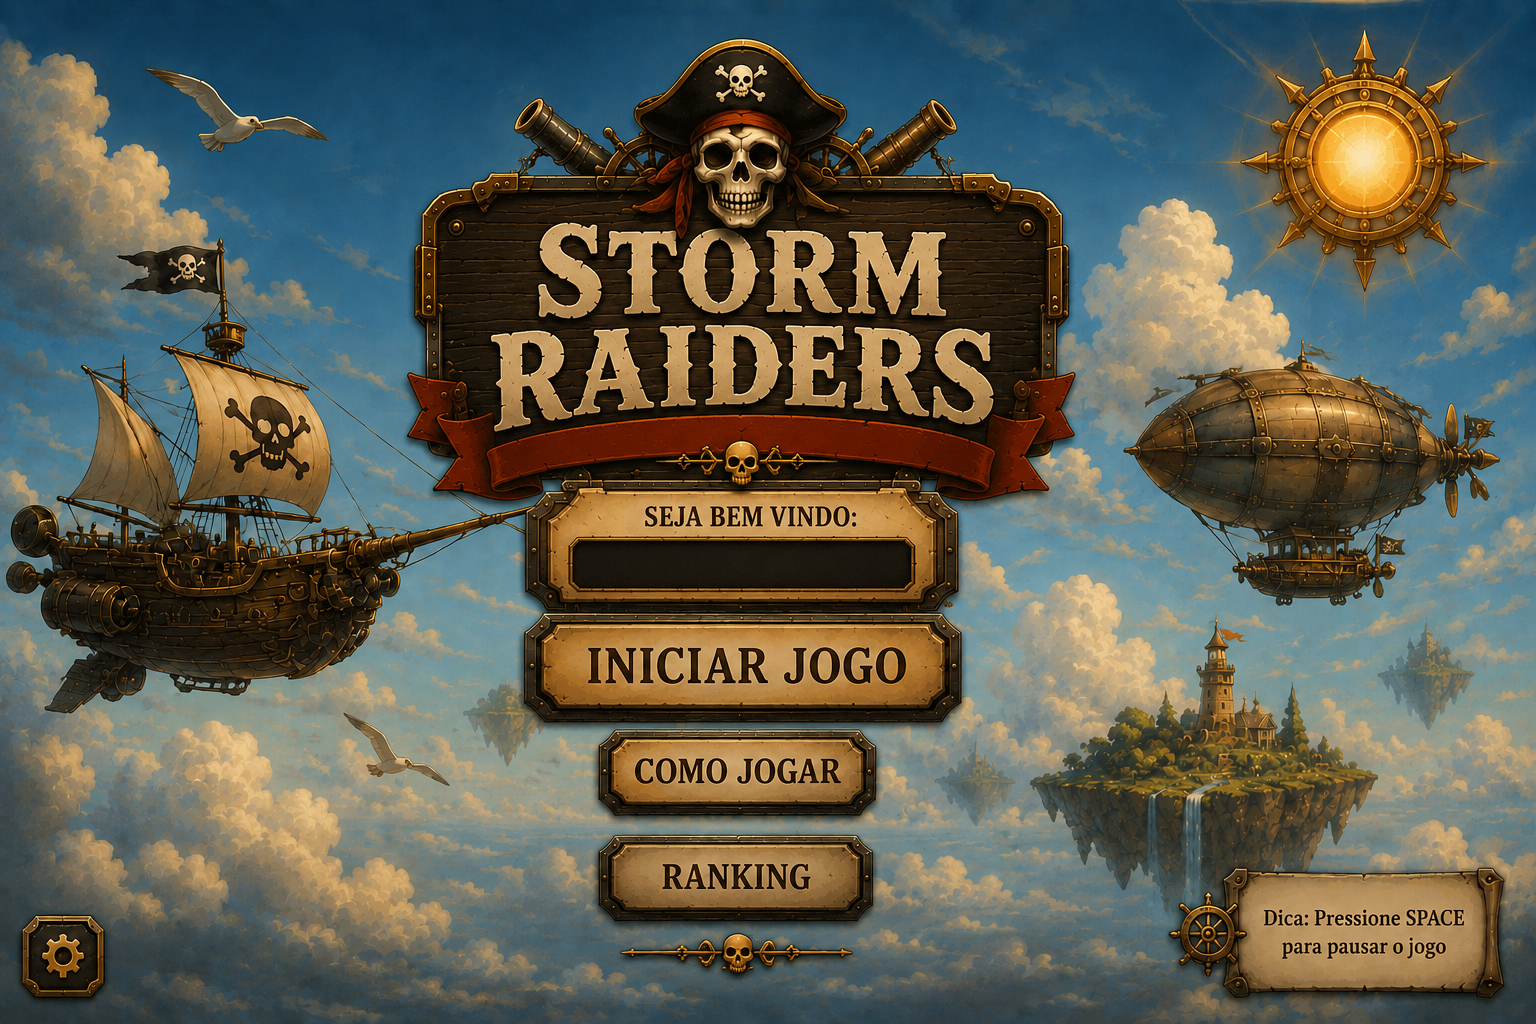
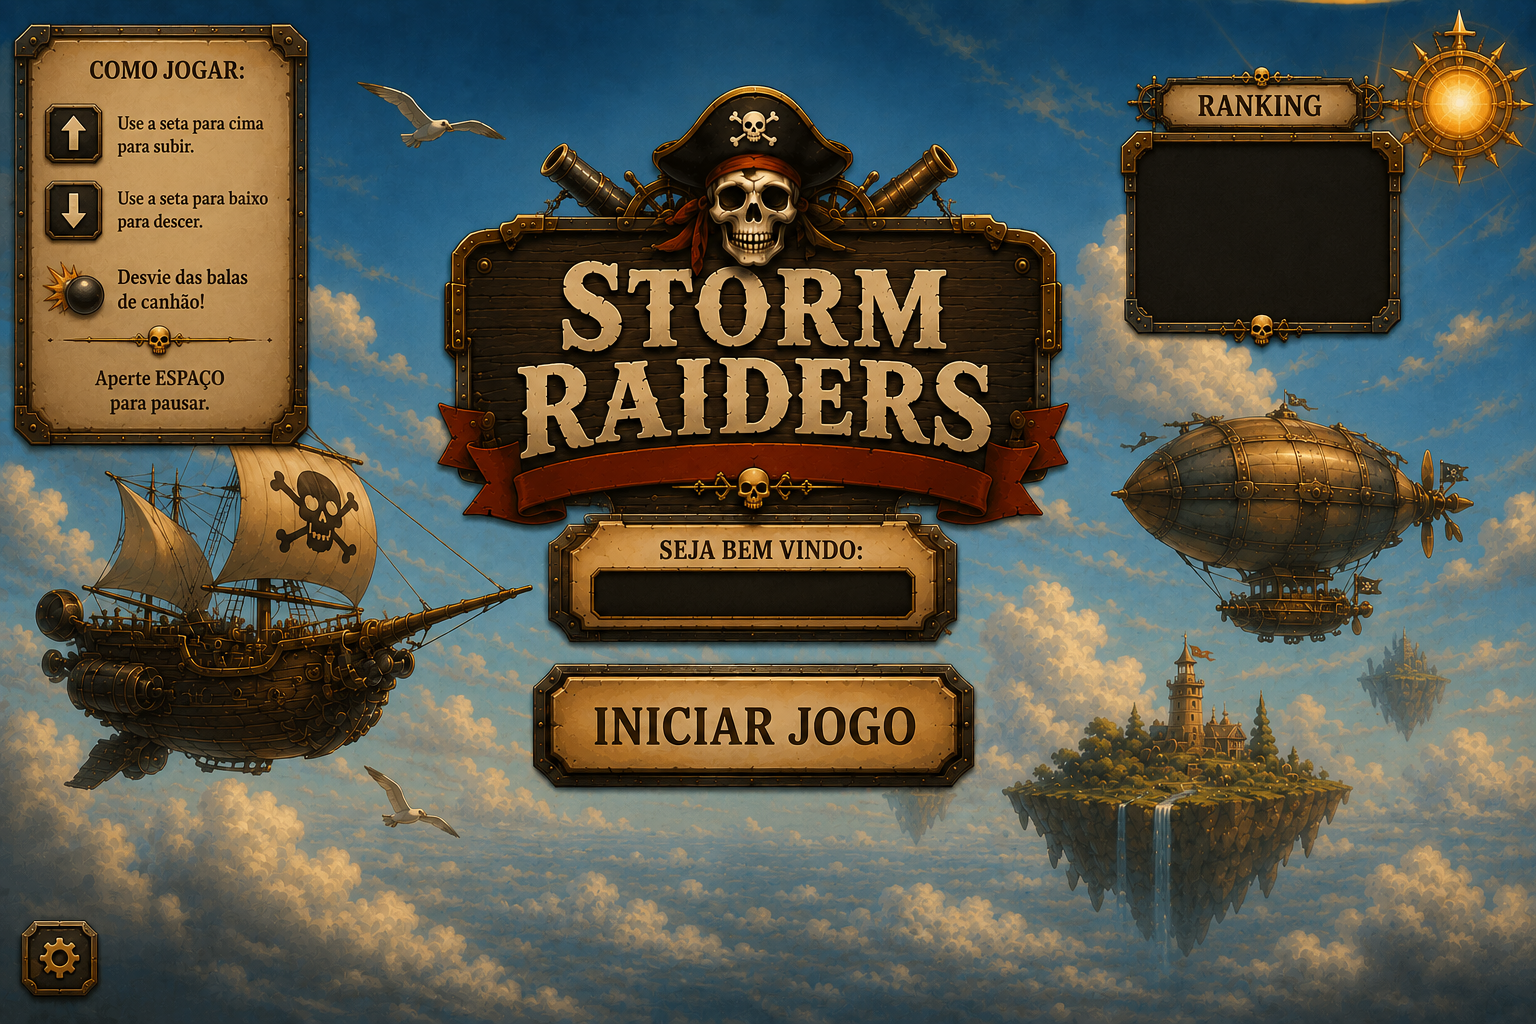
remoção do botão quit e ajuste na tela do botão start

diff --git a/main.py b/main.py
@@ -182,8 +182,8 @@ def dead():
 
 
 def start():
-    larguraButtonStart = 150
-    alturaButtonStart  = 40
+    larguraButtonStart = 260
+    alturaButtonStart  = 70
     larguraButtonQuit = 150
     alturaButtonQuit  = 40
     while True:
@@ -192,11 +192,8 @@ def start():
                 quit()
             elif evento.type == pygame.MOUSEBUTTONDOWN:
                 if startButton.collidepoint(evento.pos):
-                    larguraButtonStart = 140
-                    alturaButtonStart  = 35
-                if quitButton.collidepoint(evento.pos):
-                    larguraButtonQuit = 140
-                    alturaButtonQuit  = 35
+                    larguraButtonStart = 360
+                    alturaButtonStart  = 460
 
                 
             elif evento.type == pygame.MOUSEBUTTONUP:
@@ -206,26 +203,15 @@ def start():
                     larguraButtonStart = 150
                     alturaButtonStart  = 40
                     jogar()
-                if quitButton.collidepoint(evento.pos):
-                    #pygame.mixer.music.play(-1)
-                    larguraButtonQuit = 150
-                    alturaButtonQuit  = 40
-                    quit()
+
             
         tela.fill(branco)
         tela.blit(fundoStart, (0,0))
-        startButton = pygame.draw.rect(tela, branco, (10,10, larguraButtonStart, alturaButtonStart), border_radius=15)
+        startButton = pygame.draw.rect(tela, branco, (360,460, larguraButtonStart, alturaButtonStart), border_radius=15)
         startTexto = fonteMenu.render("Iniciar Game", True, preto)
         tela.blit(startTexto, (25,12))
         textoJogador = fonteMenu.render(f"Bem-vindo, {nome}!", True, branco)
-        tela.blit(textoJogador, (400, 370))
-        
-        quitButton = pygame.draw.rect(tela, branco, (10,60, larguraButtonQuit, alturaButtonQuit), border_radius=15)
-        quitTexto = fonteMenu.render("Sair do Game", True, preto)
-        tela.blit(quitTexto, (25,62))
-        texto = fonteMenu.render(f"The Best - {nome_maior} - {maior_pontos} - { dataJogada} ", True, branco)
-        tela.blit(texto, (480,15))
-        
+        tela.blit(textoJogador, (400, 390))        
 
         pygame.display.update()
         relogio.tick(60)
